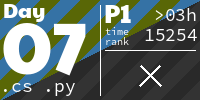
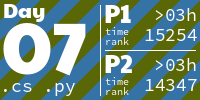
Add 2024 Day08

diff --git a/Solutions/2024/Day08/Day08 - part2.py b/Solutions/2024/Day08/Day08 - part2.py
@@ -1,0 +1,77 @@
+from Helper import *
+
+def get_unique_characters(matrix):
+    unique_characters = set(char for row in matrix for char in row)
+    unique_characters.remove('.')
+    return unique_characters
+
+def get_nodes_with(char, matrix):
+    nodes = list()
+    for i, row in enumerate(matrix):
+        for j, element in enumerate(row):
+            if element == char:
+                nodes.append((i,j))
+    return nodes
+
+def get_antinodes(node, nodes, max_row, max_col):
+    antinodes = list()
+    row, col = node
+
+    for next_node in nodes:
+        next_row, next_col = next_node
+        dx = next_row - row
+        dy = next_col - col
+        print(f'node: {node} - next node {next_node}: dx: {dx} - dy {dy}')
+
+        antinode1_row = row - dx
+        antinode1_col = col - dy
+        while(0 <= antinode1_row < max_row and 0 <= antinode1_col < max_col):
+            antinode1 = (antinode1_row, antinode1_col)
+            antinodes.append(antinode1)
+            print(f'antinode 1: {antinode1}')
+            antinode1_row = antinode1_row - dx
+            antinode1_col = antinode1_col - dy
+
+        antinode2_row = row + dx
+        antinode2_col = col + dy
+        while(0 <= antinode2_row < max_row and 0 <= antinode2_col < max_col):
+            antinode2 = (antinode2_row, antinode2_col)
+            antinodes.append(antinode2)
+            print(f'antinode 2: {antinode2}')
+            antinode2_row = antinode2_row + dx
+            antinode2_col = antinode2_col + dy
+    return antinodes
+
+start_time = initialize()
+
+with open("/workspaces/AdventOfCode/Solutions/2024/Day08/input.txt", "r") as file:
+    matrix = [list(line.strip()) for line in file]
+
+print_matrix(matrix)
+
+unique_characters = get_unique_characters(matrix)
+
+print(unique_characters)
+
+antinodes = set()
+max_row = len(matrix)
+max_col = len(matrix[0])
+
+for unique_character in unique_characters:
+    print(unique_character)
+    nodes = get_nodes_with(unique_character, matrix)
+    print(nodes)
+    for i in range(len(nodes)):
+        antinodes.add(nodes[i])
+        for antinode in get_antinodes(nodes[i], nodes[i+1:], max_row, max_col):
+            antinodes.add(antinode)
+
+print(f'Result: {len(antinodes)}')
+
+# for antinode in antinodes:
+#     row, col = antinode
+#     matrix[row][col] = '#'
+
+# print_matrix(matrix)
+
+print_runtime(start_time)

diff --git a/Solutions/2024/Day08/Day08 - part1.py b/Solutions/2024/Day08/Day08 - part1.py
@@ -1,0 +1,61 @@
+from Helper import *
+
+def get_unique_characters(matrix):
+    unique_characters = set(char for row in matrix for char in row)
+    unique_characters.remove('.')
+    return unique_characters
+
+def get_nodes_with(char, matrix):
+    nodes = list()
+    for i, row in enumerate(matrix):
+        for j, element in enumerate(row):
+            if element == char:
+                nodes.append((i,j))
+    return nodes
+
+def get_antinodes(node, nodes):
+    antinodes = list()
+    row, col = node
+
+    for next_node in nodes:
+        next_row, next_col = next_node
+        dx = next_row - row
+        dy = next_col - col
+        print(f'node: {node} - next node {next_node}: dx: {dx} - dy {dy}')
+
+        antinode1 = (row - dx, col - dy)
+        antinode2 = (next_row + dx, next_col + dy)
+        print(f'antinode 1: {antinode1} - antinode 2: {antinode2}')
+        antinodes.append(antinode1)
+        antinodes.append(antinode2) 
+    return antinodes
+
+def inBounds(matrix, antinode):
+    row, col = antinode
+    rows = len(matrix)
+    cols = len(matrix[0]) if rows > 0 else 0
+    return 0 <= row < rows and 0 <= col < cols
+
+start_time = initialize()
+
+with open("/workspaces/AdventOfCode/Solutions/2024/Day08/input.txt", "r") as file:
+    matrix = [list(line.strip()) for line in file]
+
+print_matrix(matrix)
+
+unique_characters = get_unique_characters(matrix)
+
+print(unique_characters)
+
+antinodes = set()
+for unique_character in unique_characters:
+    print(unique_character)
+    nodes = get_nodes_with(unique_character, matrix)
+    print(nodes)
+    for i in range(len(nodes)):
+        for antinode in get_antinodes(nodes[i], nodes[i+1:]):
+            if inBounds(matrix, antinode):
+                antinodes.add(antinode)
+
+print(f'Result: {len(antinodes)}')
+print_runtime(start_time)

diff --git a/Solutions/2024/Day08/Helper.py b/Solutions/2024/Day08/Helper.py
@@ -1,0 +1,18 @@
+import time
+import os
+
+def print_runtime(start_time):
+    end_time = time.time()
+    runtime = end_time - start_time
+    print(f"Runtime: {runtime} seconds")
+
+def initialize():
+    start_time = time.time()
+    year = 2024
+    file_name = os.path.basename(__file__)
+    print(f'{year} - {file_name}')
+    return start_time
+
+def print_matrix(matrix):
+    for row in matrix:
+        print(" ".join(row))

diff --git a/README.md b/README.md
@@ -9,7 +9,7 @@ Data is stored in a private repository and can be loaded via
 
 <!-- AOC TILES BEGIN -->
 <h1 align="center">
-  2024 - 13 ⭐ - Smalltalk
+  2024 - 16 ⭐ - Smalltalk
 </h1>
 <a href="ProjectTemplate/SolverPart1.cs">
   <img src=".aoc_tiles/tiles/2024/01.png" width="161px">
@@ -31,6 +31,9 @@ Data is stored in a private repository and can be loaded via
 </a>
 <a href="Solutions/2022/Day07/Directory.cs">
   <img src=".aoc_tiles/tiles/2024/07.png" width="161px">
+</a>
+<a href="Solutions/2022/Day08/InputReader.cs">
+  <img src=".aoc_tiles/tiles/2024/08.png" width="161px">
 </a>
 <!-- AOC TILES END --> 
 <h1 align="center">
